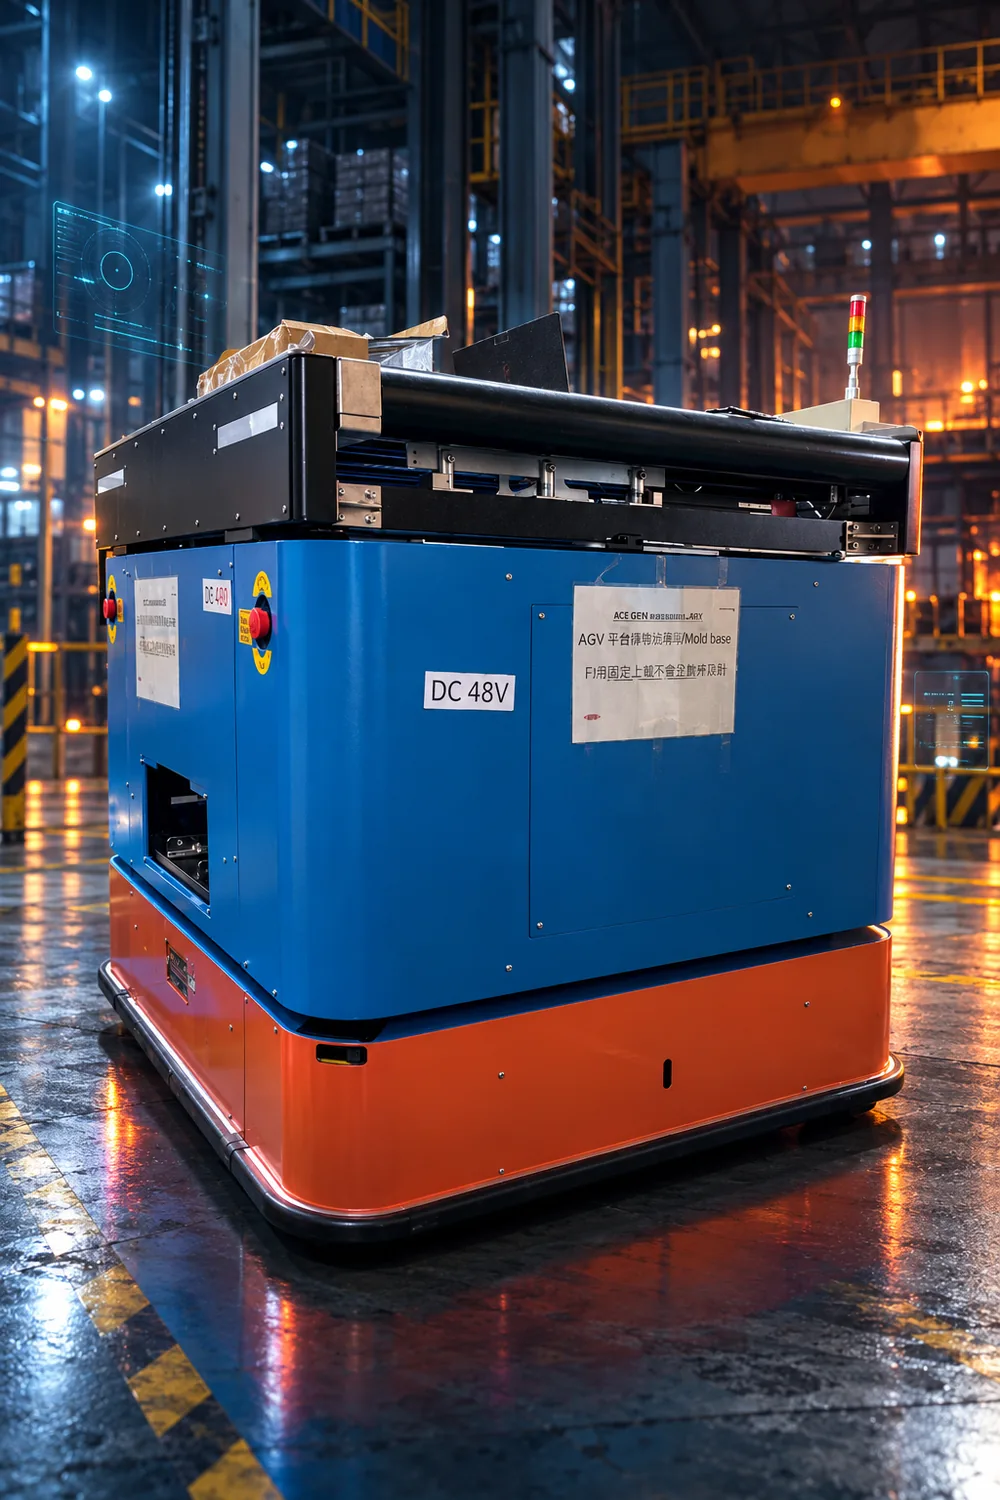
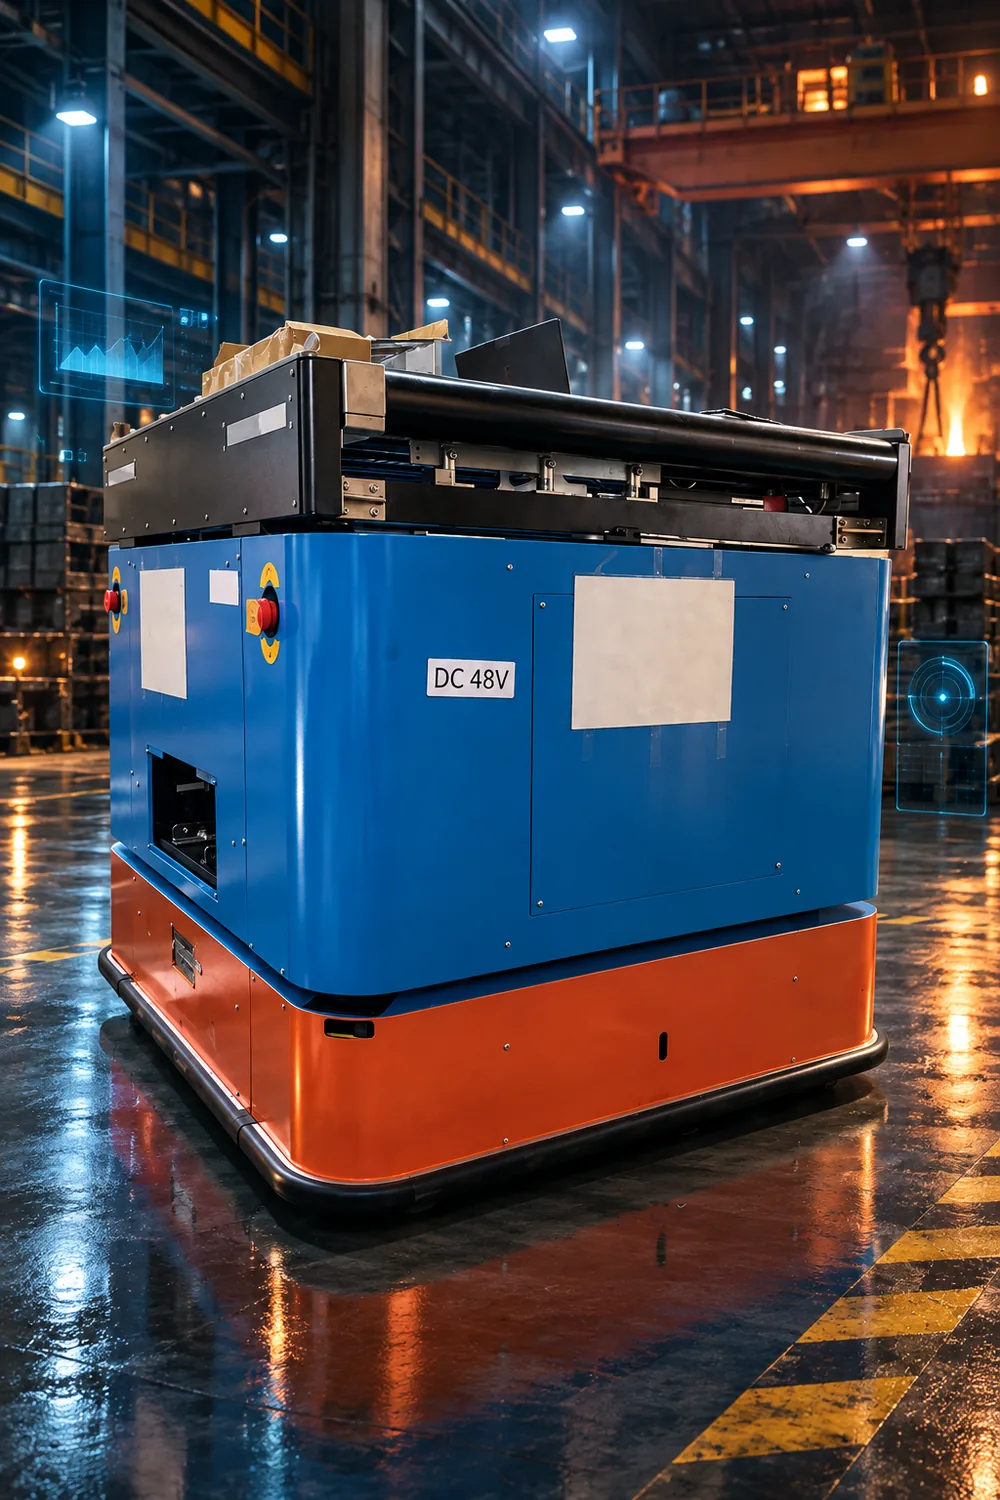
feat(cases): 成功案例改為三大案例+五小卡,每張附現場實拍/設計圖縮圖
重做半導體/面板/光學/金屬加工案例圖(完整機身、貼紙留白);600KG 重載車改重工場景。
半導體標示為設計圖(原檔為 CAD 渲染)。移除橫向 pin。

diff --git a/index.html b/index.html
@@ -275,22 +275,57 @@
 </section>
 
 <section id="cases" class="cases">
-  <div class="cases-pin">
-    <div class="wrap sec-head">
+  <div class="wrap">
+    <div class="sec-head">
       <h2>成功案例實績</h2>
       <p>跨足多元產業，深獲國內外知名企業信賴</p>
     </div>
-    <div class="cases-track" id="track">
-      <article data-cursor><img src="images/cine/case1.webp" alt="半導體封測大廠產線自動化與無人搬運系統案例" loading="lazy"><h3>半導體封測大廠</h3><p>產線自動化與無人搬運系統</p><span class="chip accent">潔淨室</span></article>
-      <article data-cursor><img src="images/cine/case10.webp" alt="傳統金屬加工產業重載型AGV 2000KG搬運案例" loading="lazy"><h3>傳統金屬加工產業</h3><p>重載型 AGV (2000KG)</p><span class="chip">重工</span></article>
-      <article data-cursor><img src="images/cine/case11.webp" alt="美商科技產業重載AGV與ASRS自動倉儲系統案例" loading="lazy"><h3>美商科技產業</h3><p>重載 AGV (600KG) ASRS 系統</p><span class="chip">重工</span></article>
-      <article data-cursor><img src="images/cine/case8.webp" alt="日商機械手臂產業台灣安川智慧產線案例" loading="lazy"><h3>日商機械手臂產業</h3><p>台灣安川智慧產線</p><span class="chip accent">潔淨室</span></article>
-      <article data-cursor><img src="images/cine/case7.webp" alt="台灣CNC加工產業精密加工自動化案例" loading="lazy"><h3>台灣 CNC 加工產業</h3><p>精密加工自動化</p><span class="chip accent">精密</span></article>
-      <article data-cursor><img src="images/cine/case6.webp" alt="日本光學科技廠烤箱料架AGV倉儲系統案例" loading="lazy"><h3>日本光學科技廠</h3><p>烤箱料架 AGV 倉儲系統</p><span class="chip accent">潔淨室</span></article>
-      <article data-cursor><img src="images/cine/case4.webp" alt="面板廠自動化物料搬運系統案例" loading="lazy"><h3>面板廠</h3><p>自動化物料搬運</p><span class="chip accent">潔淨室</span></article>
-      <article data-cursor><img src="images/cine/case3.webp" alt="PCB板廠重型烤箱自動化搬運案例" loading="lazy"><h3>PCB 板廠</h3><p>重型烤箱自動化</p><span class="chip">重工</span></article>
-      <a class="cases-more" href="https://ching-tech.github.io/chingtech-case-hub/" target="_blank" rel="noopener" data-cursor>看更多案例<br>案例展示</a>
+
+    <article class="cf pt">
+      <div class="cf-media">
+        <img src="images/cine/case10h.webp" alt="傳統金屬加工產業重載型 AGV 2000KG 搬運案例" loading="lazy" width="1085" height="1449">
+        <figure class="real"><img src="images/cases/case10-4.jpg" alt="重載型 AGV 現場實拍" loading="lazy"><figcaption>現場實拍</figcaption></figure>
+      </div>
+      <div class="cf-body">
+        <span class="chip">重工</span>
+        <h3>傳統金屬加工產業</h3>
+        <p class="cf-what">重載型 AGV (2000KG)</p>
+        <p class="cf-num"><b>2000</b><small>公斤</small></p>
+      </div>
+    </article>
+
+    <article class="cf rev">
+      <div class="cf-media">
+        <img src="images/cine/semis.webp" alt="半導體封測大廠潔淨室產線自動化與無人搬運案例" loading="lazy" width="1536" height="1024">
+        <figure class="real"><img src="images/cases/case1-1.png" alt="半導體封測大廠產線自動化設計圖" loading="lazy"><figcaption>設計圖</figcaption></figure>
+      </div>
+      <div class="cf-body">
+        <span class="chip accent">潔淨室</span>
+        <h3>半導體封測大廠</h3>
+        <p class="cf-what">產線自動化與無人搬運系統</p>
+      </div>
+    </article>
+
+    <article class="cf pt">
+      <div class="cf-media">
+        <img src="images/cine/case8.webp" alt="日商機械手臂產業台灣安川智慧產線案例" loading="lazy" width="937" height="1679">
+        <figure class="real"><img src="images/cases/case8-1.jpg" alt="載有協作手臂的 AGV 現場實拍" loading="lazy"><figcaption>現場實拍</figcaption></figure>
+      </div>
+      <div class="cf-body">
+        <span class="chip accent">潔淨室</span>
+        <h3>日商機械手臂產業</h3>
+        <p class="cf-what">台灣安川智慧產線</p>
+      </div>
+    </article>
+
+    <div class="cs-grid">
+      <article data-cursor><div class="cs-img"><img src="images/cine/case11.webp" alt="美商科技產業重載AGV與ASRS自動倉儲系統案例" loading="lazy"><figure class="real"><img src="images/cases/case11-1.jpg" alt="現場實拍" loading="lazy"><figcaption>實拍</figcaption></figure></div><h3>美商科技產業</h3><p>重載 AGV (600KG) ASRS 系統</p><span class="chip">重工</span></article>
+      <article data-cursor><div class="cs-img"><img src="images/cine/case7.webp" alt="台灣CNC加工產業精密加工自動化案例" loading="lazy"><figure class="real"><img src="images/cases/case7-1.jpg" alt="現場實拍" loading="lazy"><figcaption>實拍</figcaption></figure></div><h3>台灣 CNC 加工產業</h3><p>精密加工自動化</p><span class="chip accent">精密</span></article>
+      <article data-cursor><div class="cs-img"><img src="images/cine/case6.webp" alt="日本光學科技廠烤箱料架AGV倉儲系統案例" loading="lazy"><figure class="real"><img src="images/cases/case6-2.jpg" alt="現場實拍" loading="lazy"><figcaption>實拍</figcaption></figure></div><h3>日本光學科技廠</h3><p>烤箱料架 AGV 倉儲系統</p><span class="chip accent">潔淨室</span></article>
+      <article data-cursor><div class="cs-img"><img src="images/cine/case4.webp" alt="面板廠自動化物料搬運系統案例" loading="lazy"><figure class="real"><img src="images/cases/case4-2.jpg" alt="現場實拍" loading="lazy"><figcaption>實拍</figcaption></figure></div><h3>面板廠</h3><p>自動化物料搬運</p><span class="chip accent">潔淨室</span></article>
+      <article data-cursor><div class="cs-img"><img src="images/cine/case3.webp" alt="PCB板廠重型烤箱自動化搬運案例" loading="lazy"><figure class="real"><img src="images/cases/case3-1.jpg" alt="現場實拍" loading="lazy"><figcaption>實拍</figcaption></figure></div><h3>PCB 板廠</h3><p>重型烤箱自動化</p><span class="chip">重工</span></article>
     </div>
+    <p class="cs-more"><a href="https://ching-tech.github.io/chingtech-case-hub/" target="_blank" rel="noopener" data-cursor>看更多案例　案例展示</a></p>
   </div>
 </section>
 

diff --git a/css/website.css b/css/website.css
@@ -237,23 +237,42 @@ html.js .ln > span { transform: translateY(110%); }
 @media (max-width: 700px) { .rail-nodes b { font-size: .7rem; } .rail-nodes li:nth-child(even) b { top: 52px; } .rail-track { height: 80px; } }
 
 /* 案例 */
-.cases { padding-block: clamp(5rem, 12vh, 9rem) 0; background: var(--bg); overflow: hidden; }
-.cases-pin { display: flex; flex-direction: column; justify-content: center; min-height: 100vh; padding-bottom: 4rem; }
-.cases .sec-head { margin-bottom: clamp(1.5rem, 4vh, 3rem); }
+.cases { padding-block: clamp(5rem, 12vh, 9rem); background: var(--bg); }
 .cases .sec-head h2 { font: 900 clamp(2.2rem, 5vw, 5rem)/1.12 var(--f-serif); letter-spacing: -.03em; }
 .cases .sec-head p { color: var(--text-muted); max-width: 28em; }
-.cases-track { display: flex; gap: clamp(1rem, 2vw, 2rem); padding-inline: var(--pad); width: max-content; will-change: transform; }
-.cases-track article { width: clamp(280px, 30vw, 520px); overflow: hidden; }
-.cases-track img { width: 100%; aspect-ratio: 4 / 5; object-fit: cover; background: var(--surface); filter: saturate(.9); transition: filter .5s, transform .8s var(--ease); }
-.cases-track article:hover img { filter: none; transform: scale(1.04); }
-.cases-track h3 { font-size: 1.3rem; font-weight: 700; margin-top: 1rem; }
-.cases-track p { color: var(--text-muted); font-size: .95rem; margin-bottom: .6rem; }
-.cases-more { width: clamp(200px, 20vw, 320px); aspect-ratio: 1; display: grid; place-items: center; text-align: center; border: 1px solid var(--accent); border-radius: 50%; align-self: flex-start; color: var(--accent); font-size: 1.3rem; font-weight: 700; transition: background .3s, color .3s; flex: none; }
-.cases-more:hover { background: var(--accent); color: var(--cta-text); }
-@media (max-width: 900px), (prefers-reduced-motion: reduce) {
-  .cases-pin { min-height: 0; padding-block: 0 4rem; }
-  .cases-track { width: auto; overflow-x: auto; scroll-snap-type: x mandatory; padding-bottom: 1rem; }
-  .cases-track article, .cases-more { scroll-snap-align: start; flex: none; }
+.cf { display: grid; grid-template-columns: 1.55fr 1fr; gap: clamp(1.5rem, 4vw, 4.5rem); align-items: center; margin-bottom: clamp(3.5rem, 10vh, 7rem); }
+.cf.rev { grid-template-columns: 1fr 1.55fr; }
+.cf.rev .cf-media { order: 2; }
+.cf-media { position: relative; aspect-ratio: 16 / 10; overflow: hidden; background: var(--surface); }
+.cf-media > img { position: absolute; inset: 0; width: 100%; height: 100%; object-fit: cover; }
+.cf.pt { grid-template-columns: minmax(0, .8fr) 1fr; }
+.cf.pt .cf-media { aspect-ratio: 4 / 5; max-height: 86vh; }
+.cf.pt .real { aspect-ratio: 1; }
+.cf-media::after { content: ""; position: absolute; inset: 0; background: linear-gradient(to top, rgba(14,14,16,.5), transparent 40%); pointer-events: none; }
+.real { position: absolute; z-index: 2; right: clamp(.8rem, 1.6vw, 1.4rem); bottom: clamp(.8rem, 1.6vw, 1.4rem); width: clamp(110px, 20%, 220px); aspect-ratio: 4 / 5; border: 2px solid var(--bone); background: #000; box-shadow: 0 10px 30px rgba(0,0,0,.5); }
+.real img { width: 100%; height: 100%; object-fit: cover; }
+.real figcaption { position: absolute; left: -2px; bottom: -2px; background: var(--bone); color: var(--ink); font: 700 .72rem/1 var(--f-mono); letter-spacing: .08em; padding: .35rem .55rem; }
+.cf-body .chip { margin-bottom: 1.2rem; display: inline-block; }
+.cf-body h3 { font: 900 clamp(1.8rem, 3.4vw, 3.4rem)/1.15 var(--f-serif); letter-spacing: -.03em; }
+.cf-what { color: var(--text-muted); font-size: 1.1rem; margin-top: .8rem; }
+.cf-num { margin-top: 1.6rem; border-top: 1px solid var(--border); padding-top: 1rem; display: flex; align-items: baseline; gap: .4rem; }
+.cf-num b { font: 900 clamp(3rem, 7vw, 6.4rem)/1 var(--f-serif); color: var(--accent); letter-spacing: -.04em; }
+.cf-num small { color: var(--text-muted); font-size: 1.1rem; }
+.cs-grid { display: grid; grid-template-columns: repeat(5, 1fr); gap: clamp(.8rem, 1.4vw, 1.4rem); border-top: 1px solid var(--border); padding-top: clamp(2rem, 5vh, 3.4rem); }
+.cs-img { position: relative; aspect-ratio: 4 / 5; overflow: hidden; background: var(--surface); }
+.cs-img > img { width: 100%; height: 100%; object-fit: cover; transition: transform .8s var(--ease), filter .5s; filter: saturate(.9); }
+.cs-grid article:hover .cs-img > img { transform: scale(1.05); filter: none; }
+.cs-img .real { width: 34%; right: .6rem; bottom: .6rem; border-width: 1.5px; }
+.cs-img .real figcaption { font-size: .6rem; padding: .25rem .4rem; }
+.cs-grid h3 { font-size: 1.1rem; font-weight: 700; margin-top: .9rem; }
+.cs-grid p { color: var(--text-muted); font-size: .88rem; margin: .2rem 0 .6rem; }
+.cs-more { margin-top: clamp(2rem, 6vh, 4rem); }
+.cs-more a { color: var(--accent); font-weight: 700; border-bottom: 1px solid var(--accent); padding-bottom: .2rem; }
+@media (max-width: 1000px) { .cs-grid { grid-template-columns: repeat(3, 1fr); } }
+@media (max-width: 820px) {
+  .cf, .cf.rev, .cf.pt { grid-template-columns: 1fr; }
+  .cf.rev .cf-media { order: 0; }
+  .cs-grid { grid-template-columns: repeat(2, 1fr); }
 }
 
 /* AI 升級 */

diff --git a/js/main.js b/js/main.js
@@ -222,14 +222,11 @@ void main(){
       setRail(Math.min(nodes.length - 1, Math.round(p * (nodes.length - 1))));
     } });
 
-  /* ---------- 案例:橫向 pin ---------- */
-  ScrollTrigger.matchMedia({
-    '(min-width: 901px)': () => {
-      const track = $('#track'), pin = $('.cases-pin');
-      const dist = () => track.scrollWidth - innerWidth + 40;
-      gsap.to(track, { x: () => -dist(), ease: 'none',
-        scrollTrigger: { trigger: pin, start: 'top top', end: () => '+=' + dist(), pin: true, scrub: .6, invalidateOnRefresh: true, anticipatePin: 1 } });
-    }
+  /* ---------- 案例:大圖揭示 ---------- */
+  $$('.cf-media').forEach(m => {
+    gsap.fromTo(m, { clipPath: 'inset(0 0 100% 0)' }, { clipPath: 'inset(0 0 0% 0)', duration: 1.3, ease: 'power4.out',
+      scrollTrigger: { trigger: m, start: 'top 82%', once: true } });
+    gsap.fromTo($('img', m), { scale: 1.18 }, { scale: 1, ease: 'none', scrollTrigger: { trigger: m, start: 'top bottom', end: 'bottom top', scrub: true } });
   });
 
   /* ---------- AI 區視差 ---------- */
